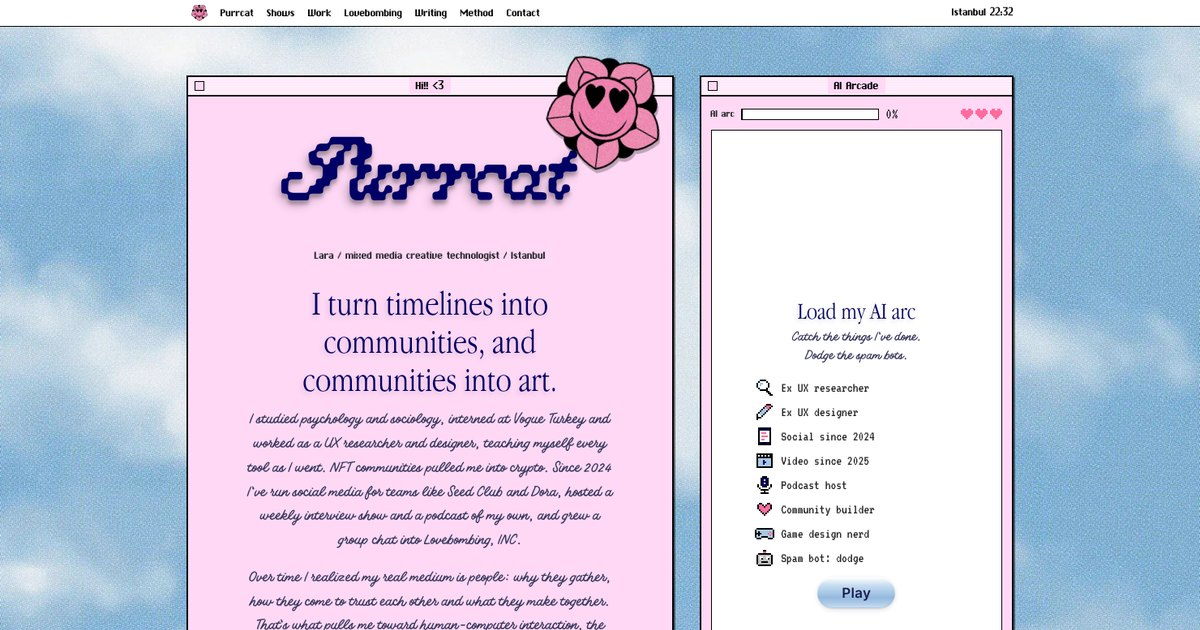
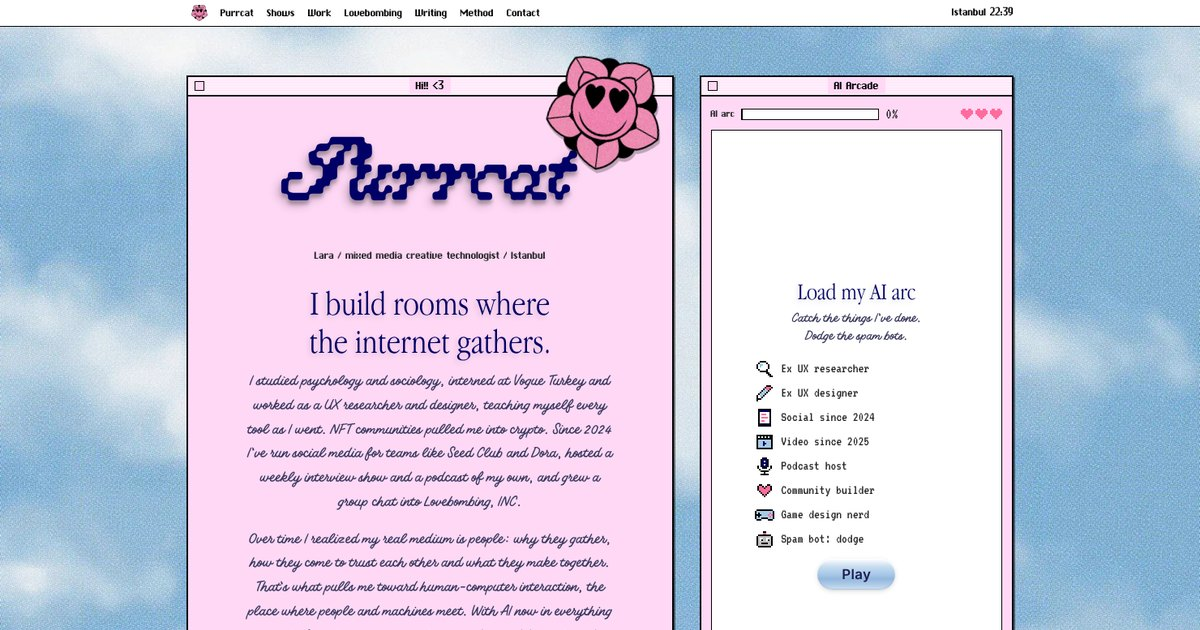
New headline: I build rooms where the internet gathers
Replaces the timelines into communities into art line. Rooms covers group chats, Spaces, livestreams, the app, games and interfaces in one image, and it echoes why they gather in the intro. Link preview text and image updated.

Claude-Session: https://claude.ai/code/session_012vLfLktoEVwbfYkYAVud5t

Changed region(s): [[0.185, 0.4524, 0.5242, 1.0], [0.6167, 0.4524, 0.7708, 0.9651]]

diff --git a/index.html b/index.html
@@ -4,18 +4,18 @@
 <meta charset="utf-8">
 <meta name="viewport" content="width=device-width, initial-scale=1, viewport-fit=cover">
 <title>Purrcat Reel</title>
-<meta name="description" content="Purrcat is Lara, a mixed media creative technologist in Istanbul. She turns timelines into communities, and communities into art.">
+<meta name="description" content="Purrcat is Lara, a mixed media creative technologist in Istanbul. She builds rooms where the internet gathers.">
 <link rel="canonical" href="https://agentic-scenester.vercel.app/">
 <meta property="og:type" content="website">
 <meta property="og:url" content="https://agentic-scenester.vercel.app/">
 <meta property="og:title" content="Purrcat Reel">
-<meta property="og:description" content="Purrcat is Lara, a mixed media creative technologist in Istanbul. She turns timelines into communities, and communities into art.">
+<meta property="og:description" content="Purrcat is Lara, a mixed media creative technologist in Istanbul. She builds rooms where the internet gathers.">
 <meta property="og:image" content="https://agentic-scenester.vercel.app/assets/og.jpg">
 <meta property="og:image:width" content="1200">
 <meta property="og:image:height" content="630">
 <meta name="twitter:card" content="summary_large_image">
 <meta name="twitter:title" content="Purrcat Reel">
-<meta name="twitter:description" content="Purrcat is Lara, a mixed media creative technologist in Istanbul. She turns timelines into communities, and communities into art.">
+<meta name="twitter:description" content="Purrcat is Lara, a mixed media creative technologist in Istanbul. She builds rooms where the internet gathers.">
 <meta name="twitter:image" content="https://agentic-scenester.vercel.app/assets/og.jpg">
 <meta name="theme-color" content="#87CEEB">
 <link rel="icon" type="image/png" href="assets/favicon.png">
@@ -850,7 +850,7 @@ html.lt-lock { overflow: hidden; }
           <img class="sticker" src="assets/flower.webp" alt="" width="520" height="512">
           <h1 class="wordmark" id="h-top">Purrcat</h1>
           <p class="who">Lara / mixed media creative technologist / Istanbul</p>
-          <p class="headline">I turn timelines into communities, and communities into art.</p>
+          <p class="headline">I build rooms where the internet gathers.</p>
           <p class="lede">I studied psychology and sociology, interned at Vogue Turkey and worked as a UX researcher and designer, teaching myself every tool as I went. NFT communities pulled me into crypto. Since 2024 I’ve run social media for teams like Seed Club and Dora, hosted a weekly interview show and a podcast of my own, and grew a group chat into Lovebombing, INC.</p>
           <p class="lede">Over time I realized my real medium is people: why they gather, how they come to trust each other and what they make together. That’s what pulls me toward human-computer interaction, the place where people and machines meet. With AI now in everything we touch, from how we write to how we play and love, that place keeps growing, and so does what we can imagine. I want to build there: tools, games and mixed media work that keep a human hand inside the machine.</p>
           <div class="actions">
